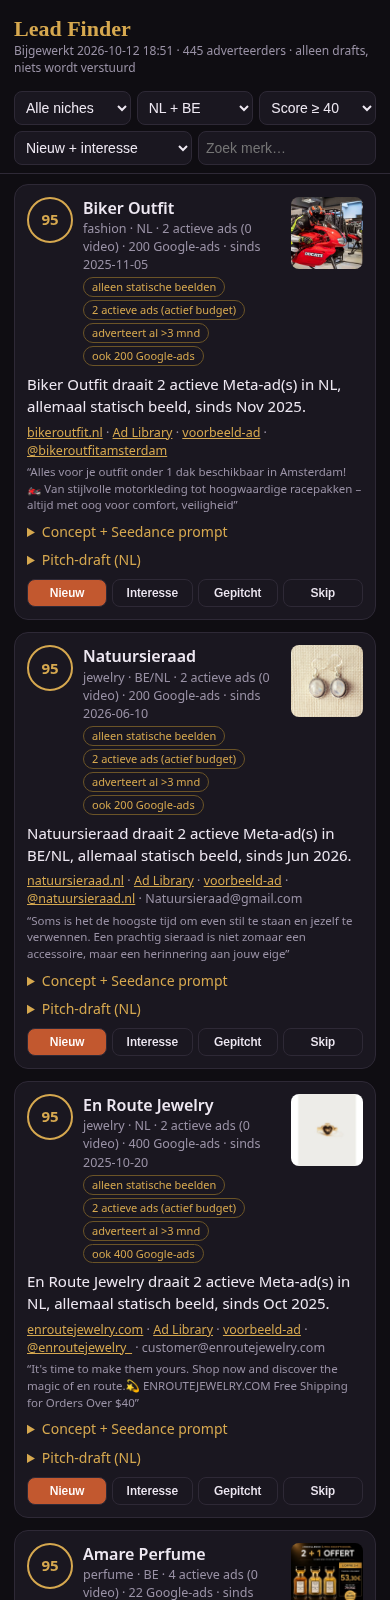
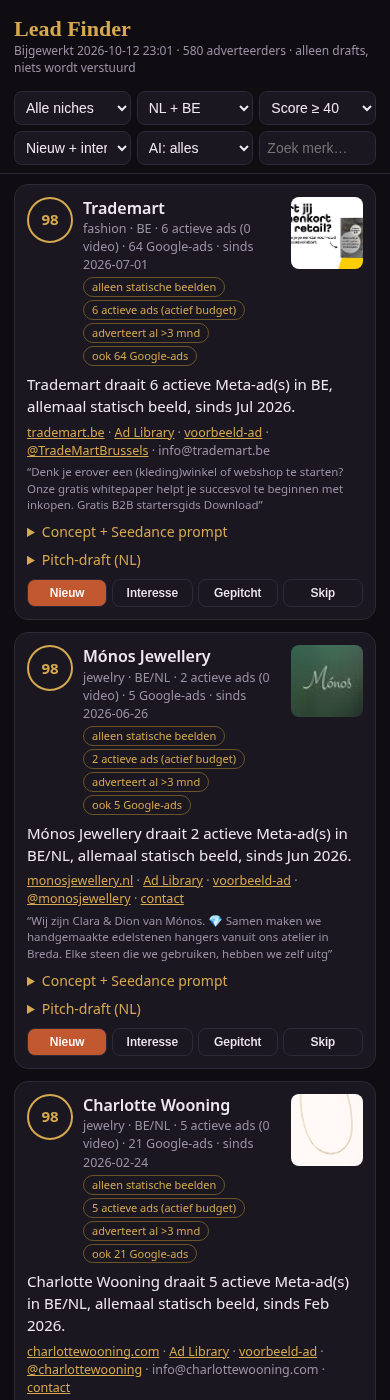
fix ?ai

Changed region(s): [[0.0308, 0.0, 0.9538, 1.0], [0.7077, 0.3379, 0.7385, 0.3686]]

diff --git a/index.html b/index.html
@@ -24,8 +24,8 @@ a{color:var(--gold)}.warn{font-size:11.5px;color:var(--mut);margin-top:4px}
 <script>
 const S=JSON.parse(localStorage.lfStatus||"{}"),save=()=>localStorage.lfStatus=JSON.stringify(S);let D;
 const esc=s=>String(s??"").replace(/[&<>"]/g,c=>({"&":"&amp;","<":"&lt;",">":"&gt;",'"':"&quot;"})[c]);
-const P=new URLSearchParams(location.search);if(P.get("ai"))setTimeout(()=>{ai.value=P.get("ai");ms.value="0";draw()},0);fetch("data/leads.json?"+Date.now()).then(r=>r.json()).then(d=>{D=d;upd.textContent=`Bijgewerkt ${d.updated.replace("T"," ")} · ${d.leads.length} adverteerders · alleen drafts, niets wordt verstuurd`;
-[...new Set(d.leads.map(l=>l.niche))].sort().forEach(n=>ni.add(new Option(n,n)));draw()});
+const P=new URLSearchParams(location.search);fetch("data/leads.json?"+Date.now()).then(r=>r.json()).then(d=>{D=d;upd.textContent=`Bijgewerkt ${d.updated.replace("T"," ")} · ${d.leads.length} adverteerders · alleen drafts, niets wordt verstuurd`;
+[...new Set(d.leads.map(l=>l.niche))].sort().forEach(n=>ni.add(new Option(n,n)));if(P.get("ai")){ai.value=P.get("ai");ms.value="0"}draw()});
 ["ni","cc","ms","sf","ai","q"].forEach(i=>document.getElementById(i).oninput=draw);
 function cp(b,t){navigator.clipboard.writeText(t).then(()=>{b.textContent="✓ Gekopieerd";setTimeout(()=>b.textContent=b.dataset.l,1400)})}
 function draw(){const q=document.getElementById("q").value.toLowerCase();
@@ -45,5 +45,5 @@ ${l.concept?`<details><summary>Concept + Seedance prompt</summary><p>${esc(l.con
 <details><summary>Pitch-draft (NL)</summary><pre>${esc(l.pitch)}</pre><button data-l="Kopieer pitch">Kopieer pitch</button><div class=warn>Draft – zelf checken en versturen.</div></details>`:""}
 <div class=st>${["new","interested","pitched","skip"].map(x=>`<button class="o ${x==st?"on":""}" data-s="${x}">${{new:"Nieuw",interested:"Interesse",pitched:"Gepitcht",skip:"Skip"}[x]}</button>`).join("")}</div>`;
 e.querySelectorAll("button[data-l]").forEach(b=>b.onclick=()=>cp(b,b.dataset.l.includes("prompt")?l.prompt:l.pitch));
-e.querySelectorAll("button[data-s]").forEach(b=>b.onclick=()=>{S[l.key]=b.dataset.s;save();draw()});L.appendChild(e)})}
+e.querySelectorAll("button[data-s]").forEach(b=>b.onclick=()=>{S[l.key]=b.dataset.s;save();if(P.get("ai")){ai.value=P.get("ai");ms.value="0"}draw()});L.appendChild(e)})}
 </script></body></html>
